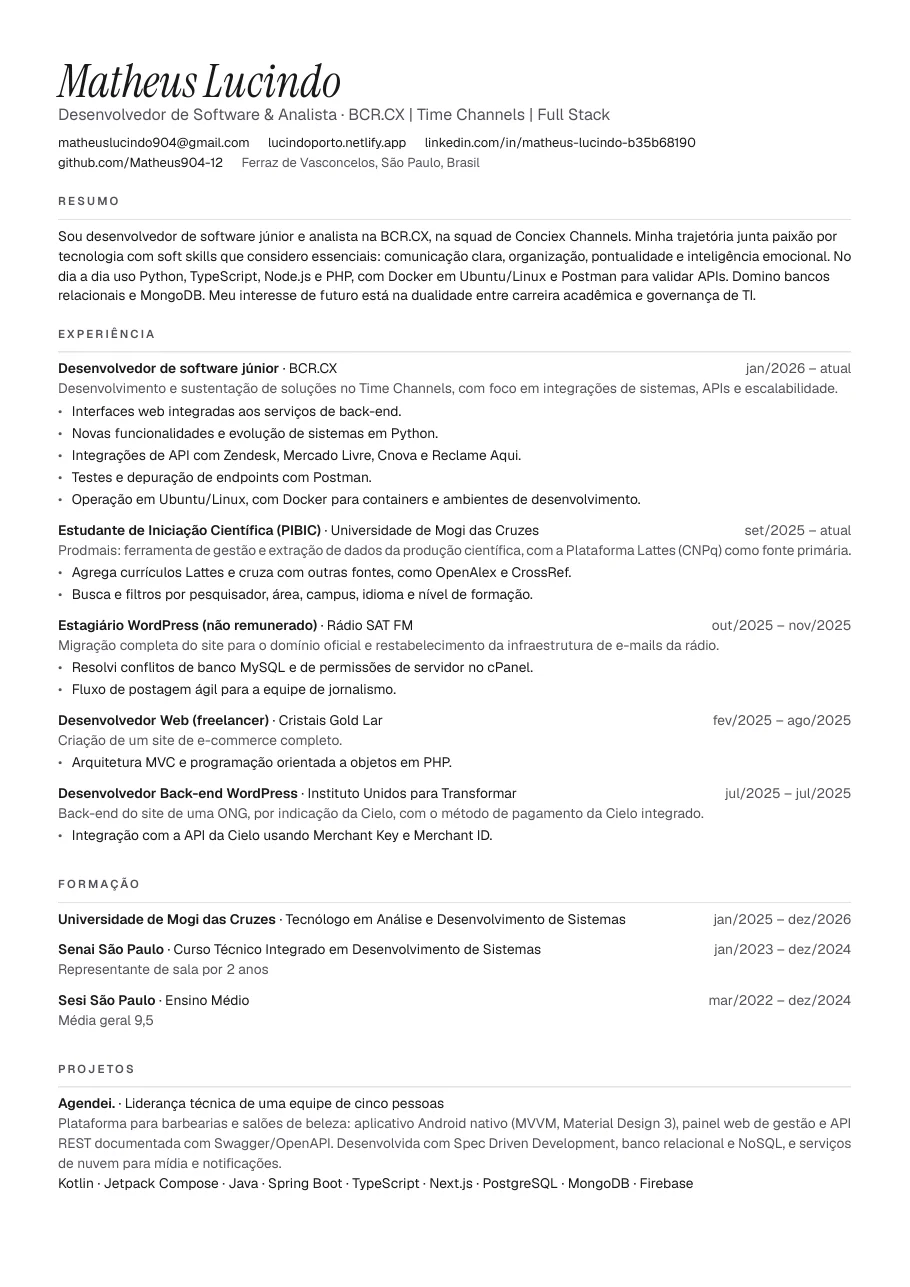
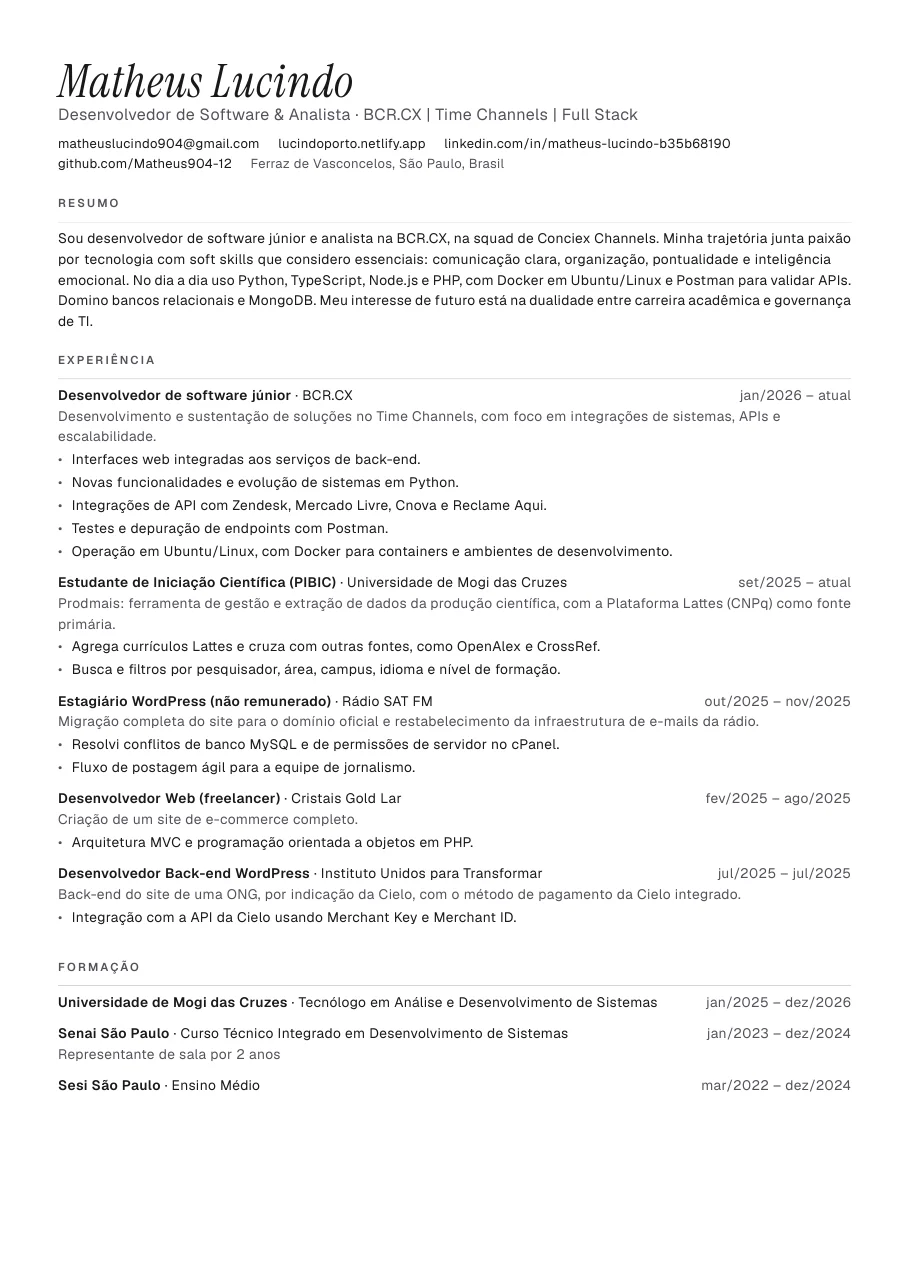
feat: WEAVE e Prodmais sem link de código, nova foto, títulos e feedback do contato
- WEAVE: modal 'Sobre' desativado (MODAL_ATIVO) e sem botão de código
- Prodmais: removido o botão de código (repositório privado)
- Foto do hero substituída pela original
- Títulos das seções reescritos; removida a média 9,5 do Sesi (site e PDF)
- Contato: painel de sucesso animado após o envio
- Mais espaço entre palavras no site e no currículo

Claude-Session: https://claude.ai/code/session_01NvPSFc1owsnszwtypdDKbB

diff --git a/src/components/WeaveBarra.tsx b/src/components/WeaveBarra.tsx
@@ -4,6 +4,9 @@ import type { Project } from '@/content/schema'
 import { mesAno } from '@/lib/format'
 import { Dialogo } from './Dialogo'
 
+/** Enquanto o WEAVE está em construção e fechado, o modal "Sobre" fica desativado. Troque para `true` quando houver uma versão 1 pública. */
+const MODAL_ATIVO = false
+
 /** Barra larga e fina do projeto em construção: sem imagem, com info em modal e o "Ver demo" em destaque. */
 export function WeaveBarra({ projeto }: { projeto: Project }) {
   const [aberto, setAberto] = useState(false)
@@ -17,14 +20,16 @@ export function WeaveBarra({ projeto }: { projeto: Project }) {
           <p className="barra-tipo">{projeto.kind}</p>
         </div>
         <div className="barra-acoes">
-          <button type="button" className="btn btn-fantasma btn-pequeno" onClick={() => setAberto(true)} aria-haspopup="dialog" aria-label={`Sobre o ${projeto.title}`}>
-            <svg width="16" height="16" viewBox="0 0 24 24" fill="none" stroke="currentColor" strokeWidth="1.8" strokeLinecap="round" aria-hidden="true"><circle cx="12" cy="12" r="9" /><path d="M12 11v5M12 8h.01" /></svg>
-            Sobre
-          </button>
+          {MODAL_ATIVO && (
+            <button type="button" className="btn btn-fantasma btn-pequeno" onClick={() => setAberto(true)} aria-haspopup="dialog" aria-label={`Sobre o ${projeto.title}`}>
+              <svg width="16" height="16" viewBox="0 0 24 24" fill="none" stroke="currentColor" strokeWidth="1.8" strokeLinecap="round" aria-hidden="true"><circle cx="12" cy="12" r="9" /><path d="M12 11v5M12 8h.01" /></svg>
+              Sobre
+            </button>
+          )}
           {projeto.demo && <a className="btn btn-primario btn-pequeno" href={projeto.demo} target="_blank" rel="noopener noreferrer">Ver demo <span className="seta" aria-hidden="true">↗</span></a>}
         </div>
       </div>
-      <Dialogo aberto={aberto} aoFechar={() => setAberto(false)} rotulo="Em construção" titulo={projeto.title}>
+      {MODAL_ATIVO && <Dialogo aberto={aberto} aoFechar={() => setAberto(false)} rotulo="Em construção" titulo={projeto.title}>
         <div className="sobre-weave">
           <p className="sobre-weave-lead">{projeto.summary}</p>
           <dl className="fatos">
@@ -41,10 +46,9 @@ export function WeaveBarra({ projeto }: { projeto: Project }) {
           <p className="proj-aviso">O protótipo no ar é uma demonstração: os dados, a IA e as integrações são simulados.</p>
           <div className="proj-links">
             {projeto.demo && <a className="btn btn-primario btn-pequeno" href={projeto.demo} target="_blank" rel="noopener noreferrer">Ver demo <span className="seta" aria-hidden="true">↗</span></a>}
-            {projeto.repo && <a className="btn btn-fantasma btn-pequeno" href={projeto.repo} target="_blank" rel="noopener noreferrer">Código <span className="seta" aria-hidden="true">↗</span></a>}
           </div>
         </div>
-      </Dialogo>
+      </Dialogo>}
     </>
   )
 }

diff --git a/src/components/Contato.tsx b/src/components/Contato.tsx
@@ -46,7 +46,7 @@ export function Contato({ emailCodificado }: { emailCodificado: string }) {
   return (
     <section className="secao" id="contato">
       <div className="container">
-        <SecaoCabeca numero="07" rotulo="Contato" titulo={<>Vamos <em>conversar</em>.</>} />
+        <SecaoCabeca numero="07" rotulo="Contato" titulo={<>Vamos trabalhar <em>juntos</em>?</>} />
         <div className="contato-grade">
           <div className="contato-texto" data-anim="subir">
             <p className="contato-lead">Estou aberto a oportunidades de desenvolvimento de software. O caminho mais rápido é o e-mail.</p>
@@ -58,6 +58,17 @@ export function Contato({ emailCodificado }: { emailCodificado: string }) {
               {ligacoes.map((l) => <li key={l.href}><a href={l.href} target="_blank" rel="noopener noreferrer">{l.label} <span aria-hidden="true">↗</span></a></li>)}
             </ul>
           </div>
+          {estado === 'enviado' ? (
+            <div className="form form-sucesso" role="status" aria-live="polite" data-anim="subir">
+              <svg className="sucesso-icone" width="64" height="64" viewBox="0 0 64 64" fill="none" aria-hidden="true">
+                <circle className="sucesso-circulo" cx="32" cy="32" r="29" stroke="currentColor" strokeWidth="2.5" />
+                <path className="sucesso-marca" d="M20 33l8 8 16-17" stroke="currentColor" strokeWidth="3.5" strokeLinecap="round" strokeLinejoin="round" />
+              </svg>
+              <h3>Mensagem <em>enviada</em>.</h3>
+              <p>Obrigado pelo contato! Li com atenção e respondo por e-mail em breve.</p>
+              <button type="button" className="btn btn-fantasma btn-pequeno" onClick={() => setEstado('ocioso')}>Enviar outra mensagem</button>
+            </div>
+          ) : (
           <form ref={formulario} className="form" name="contato" onSubmit={enviar} noValidate data-anim="subir">
             <p hidden><label>Não preencha: <input name="bot-field" tabIndex={-1} autoComplete="off" /></label></p>
             {(['nome', 'email', 'mensagem'] as const).map((campo) => (
@@ -71,10 +82,10 @@ export function Contato({ emailCodificado }: { emailCodificado: string }) {
             ))}
             <button type="submit" className="btn btn-primario" disabled={estado === 'enviando'}>{estado === 'enviando' ? 'Enviando…' : 'Enviar mensagem'}</button>
             <p className="form-retorno" role="status" aria-live="polite">
-              {estado === 'enviado' && 'Mensagem enviada. Obrigado! Respondo por e-mail.'}
               {estado === 'erro' && 'Não consegui enviar agora. Tente de novo ou use o e-mail ao lado.'}
             </p>
           </form>
+          )}
         </div>
       </div>
     </section>

diff --git a/src/content/data/projects.ts b/src/content/data/projects.ts
@@ -20,7 +20,8 @@ export const projects: Project[] = [
     role: 'Estudante de Iniciação Científica',
     summary: 'Ferramenta que agrega currículos da Plataforma Lattes e cruza com OpenAlex e CrossRef para dar visibilidade à produção acadêmica, com busca avançada, painéis de indicadores e exportação para o ORCID.',
     stack: ['PHP', 'JavaScript'], featured: true, cover: cover('prodmais'), demoMayBeAsleep: true,
-    repo: 'https://github.com/Prodmais-UMC/Prodmais', demo: 'https://prodmais-6g41.onrender.com',
+    // Repositório privado: sem link de código.
+    demo: 'https://prodmais-6g41.onrender.com',
   },
   {
     slug: 'claude-cortex', title: 'claude-cortex', kind: 'Ferramenta de desenvolvimento', status: 'producao',
@@ -41,7 +42,8 @@ export const projects: Project[] = [
       'Exportar documentação e infraestrutura (Terraform, Docker e Kubernetes).',
       'Conectores MCP para trazer métricas de Sentry, SonarCloud, Grafana e outras ferramentas.',
     ],
-    repo: 'https://github.com/weave-platform/weave', demo: 'https://weave-platform-neon.vercel.app',
+    // Repositório privado: sem link de código.
+    demo: 'https://weave-platform-neon.vercel.app',
   },
   {
     slug: 'conectatea', title: 'ConectaTEA', kind: 'Plataforma de apoio a famílias', status: 'academico',

diff --git a/src/lib/pdf-document.tsx b/src/lib/pdf-document.tsx
@@ -18,8 +18,8 @@ const MUDO = '#52525b'
 const LINHA = '#d4d4d8'
 
 const s = StyleSheet.create({
-  pagina: { fontFamily: 'Geist', fontSize: 9, color: TINTA, paddingTop: 34, paddingBottom: 40, paddingHorizontal: 38, lineHeight: 1.45 },
-  nome: { fontFamily: 'Serif', fontSize: 30, lineHeight: 1 },
+  pagina: { fontFamily: 'Geist', fontSize: 9, color: TINTA, paddingTop: 34, paddingBottom: 40, paddingHorizontal: 38, lineHeight: 1.5, letterSpacing: 0.25, wordSpacing: 1.5 },
+  nome: { fontFamily: 'Serif', fontSize: 30, lineHeight: 1, letterSpacing: 0.6, wordSpacing: 6 },
   cargo: { fontSize: 10.5, color: MUDO, marginTop: 4 },
   contato: { flexDirection: 'row', flexWrap: 'wrap', marginTop: 7, fontSize: 8.5 },
   contatoItem: { marginRight: 12, color: TINTA, textDecoration: 'none' },
@@ -50,7 +50,7 @@ export function exibirLink(href: string): string {
   return href.replace(/^https?:\/\/(www\.)?/, '').replace(/\/$/, '')
 }
 
-const Secao = ({ titulo }: { titulo: string }) => <Text style={s.titulo}>{titulo}</Text>
+const Secao = ({ titulo }: { titulo: string }) => <Text style={s.titulo} minPresenceAhead={70}>{titulo}</Text>
 const Item = ({ texto }: { texto: string }) => (
   <View style={s.item}><Text style={s.marcador}>•</Text><Text style={{ flex: 1 }}>{texto}</Text></View>
 )

diff --git a/src/app/globals.css b/src/app/globals.css
@@ -31,7 +31,7 @@
 *, *::before, *::after { box-sizing: border-box; }
 html { -webkit-text-size-adjust: 100%; scroll-padding-top: 88px; }
 body { margin: 0; background: var(--bg); color: var(--text); font-family: var(--font-body); font-size: 17px; line-height: 1.6; -webkit-font-smoothing: antialiased; overflow-x: clip; }
-h1, h2, h3 { margin: 0; font-weight: 400; line-height: 0.98; letter-spacing: -0.02em; text-wrap: balance; }
+h1, h2, h3 { margin: 0; font-weight: 400; line-height: 0.98; letter-spacing: -0.02em; word-spacing: 0.12em; text-wrap: balance; }
 p { margin: 0; text-wrap: pretty; }
 a { color: inherit; }
 img { display: block; max-width: 100%; height: auto; }
@@ -46,3 +46,6 @@ img { display: block; max-width: 100%; height: auto; }
   html { scroll-behavior: auto; }
   *, *::before, *::after { animation-duration: 0.01ms !important; animation-iteration-count: 1 !important; transition-duration: 0.01ms !important; }
 }
+
+/* A serifa condensada com tracking negativo deixa as palavras coladas: um respiro extra entre elas. */
+.rec-texto, .cv-lead, .contato-lead, .sobre-weave-lead, .proximo h3, .proj h3 { word-spacing: 0.14em; }

diff --git a/src/styles/contact.css b/src/styles/contact.css
@@ -40,6 +40,14 @@
 .erro { min-height: 1.2em; font-size: 0.85rem; color: hsl(8 85% 68%); }
 :root[data-theme='light'] .erro { color: hsl(8 70% 42%); }
 .form .btn { justify-self: start; }
+.form-sucesso { justify-items: start; gap: 14px; min-height: 22rem; align-content: center; }
+.form-sucesso h3 { font-family: var(--font-display); font-size: clamp(2rem, 4vw, 2.8rem); line-height: 1; }
+.form-sucesso h3 em { font-style: italic; color: var(--accent); }
+.form-sucesso p { color: var(--text-soft); max-width: 34ch; }
+.sucesso-icone { color: var(--accent); }
+.sucesso-circulo { stroke-dasharray: 190; stroke-dashoffset: 190; animation: sucesso-tracar 0.7s var(--ease-out) forwards; }
+.sucesso-marca { stroke-dasharray: 48; stroke-dashoffset: 48; animation: sucesso-tracar 0.45s var(--ease-out) 0.55s forwards; }
+@keyframes sucesso-tracar { to { stroke-dashoffset: 0; } }
 .form .btn:disabled { opacity: 0.6; cursor: progress; }
 .form-retorno { min-height: 1.4em; font-size: 0.92rem; color: var(--text-soft); }
 @media (min-width: 900px) { .contato-grade { grid-template-columns: minmax(0, 0.9fr) minmax(0, 1.1fr); } }

diff --git a/src/components/Certificacoes.tsx b/src/components/Certificacoes.tsx
@@ -4,7 +4,6 @@ import { publicProfile } from '@/content/publico'
 import type { Certification } from '@/content/schema'
 import { agruparPorTrilha, destaquesDeCertificacao, outrasCertificacoes, trilhaPorId, type Trilha } from '@/lib/certificacoes'
 import { mesAno } from '@/lib/format'
-import { totalCertificacoes } from '@/lib/timeline'
 import { Dialogo } from './Dialogo'
 import { SecaoCabeca } from './SecaoCabeca'
 
@@ -56,7 +55,7 @@ export function Certificacoes() {
   return (
     <section className="secao" id="certificacoes">
       <div className="container">
-        <SecaoCabeca numero="04" rotulo="Certificações e cursos" titulo={<>{totalCertificacoes(publicProfile)} certificados e <em>contando</em>.</>} />
+        <SecaoCabeca numero="04" rotulo="Certificações e cursos" titulo={<>Aprendizado <em>contínuo</em>.</>} />
         <div className="cert-grade">
           {destaquesDeCertificacao(publicProfile).map((c) => <Destaque key={c.id} cert={c} />)}
         </div>

diff --git a/src/styles/sections.css b/src/styles/sections.css
@@ -7,7 +7,7 @@
 /* Sobre */
 .sobre-grade { display: grid; gap: clamp(36px, 6vw, 80px); grid-template-columns: minmax(0, 1fr); }
 .sobre-texto { display: grid; gap: 22px; color: var(--text-soft); max-width: 58ch; }
-.sobre-lead { font-family: var(--font-display); font-size: clamp(1.7rem, 3.6vw, 2.7rem); line-height: 1.18; color: var(--text); letter-spacing: -0.01em; }
+.sobre-lead { font-family: var(--font-display); font-size: clamp(1.7rem, 3.6vw, 2.7rem); line-height: 1.18; color: var(--text); letter-spacing: 0; word-spacing: 0.14em; }
 .fatos { margin: 0; display: grid; align-content: start; }
 .fatos > div { display: grid; grid-template-columns: 8.5rem minmax(0, 1fr); gap: 16px; padding: 16px 0; border-top: 1px solid var(--line); }
 .fatos > div:last-child { border-bottom: 1px solid var(--line); }

diff --git a/src/components/Recomendacoes.tsx b/src/components/Recomendacoes.tsx
@@ -21,7 +21,7 @@ export function Recomendacoes() {
   return (
     <section className="secao" id="recomendacoes">
       <div className="container">
-        <SecaoCabeca numero="05" rotulo="Recomendações" titulo={<>Em palavras de <em>quem acompanhou</em>.</>} />
+        <SecaoCabeca numero="05" rotulo="Recomendações" titulo={<>O que dizem sobre <em>meu trabalho</em>.</>} />
         <div className="rec" data-anim="subir">
           <div className="rec-pessoa">
             <p className="mono rec-contagem"><span className="accent">{String(indice + 1).padStart(2, '0')}</span> / {total}</p>

diff --git a/src/components/CurriculoSecao.tsx b/src/components/CurriculoSecao.tsx
@@ -8,7 +8,7 @@ export function CurriculoSecao() {
   return (
     <section className="secao" id="curriculo">
       <div className="container">
-        <SecaoCabeca numero="06" rotulo="Currículo" titulo={<>Meu currículo em <em>PDF</em>.</>} />
+        <SecaoCabeca numero="06" rotulo="Currículo" titulo={<>Currículo sempre <em>atualizado</em>.</>} />
         <div className="cv-grade">
           <div className="cv-texto" data-anim="subir">
             <p className="cv-lead">Gerado a partir dos mesmos dados deste site, então os dois nunca se contradizem.</p>

diff --git a/src/components/Trajetoria.tsx b/src/components/Trajetoria.tsx
@@ -36,7 +36,7 @@ export function Trajetoria() {
   return (
     <section className="secao" id="trajetoria">
       <div className="container">
-        <SecaoCabeca numero="02" rotulo="Trajetória" titulo={<>Trabalho e <em>formação</em>.</>} />
+        <SecaoCabeca numero="02" rotulo="Trajetória" titulo={<>Meu caminho até <em>aqui</em>.</>} />
         {proximo.map((p) => (
           <aside key={p.id} className="proximo" data-anim="subir">
             <p className="mono"><span className="tl-selo tl-selo-futuro">Próximo capítulo</span></p>

diff --git a/tests/projects.test.ts b/tests/projects.test.ts
@@ -28,6 +28,9 @@ describe('projetos', () => {
     expect(weave.highlights?.length).toBeGreaterThanOrEqual(4)
     expect(weave.demo).toBeTruthy()
   })
+  it('WEAVE e Prodmais têm repositório privado: nenhum link de código', () => {
+    for (const slug of ['weave', 'prodmais']) expect(profile.projects.find((p) => p.slug === slug)?.repo, slug).toBeUndefined()
+  })
   it('projeto privado nunca expõe link de repositório', () => {
     for (const p of profile.projects.filter((x) => x.privateCode)) expect(p.repo, p.slug).toBeUndefined()
   })
